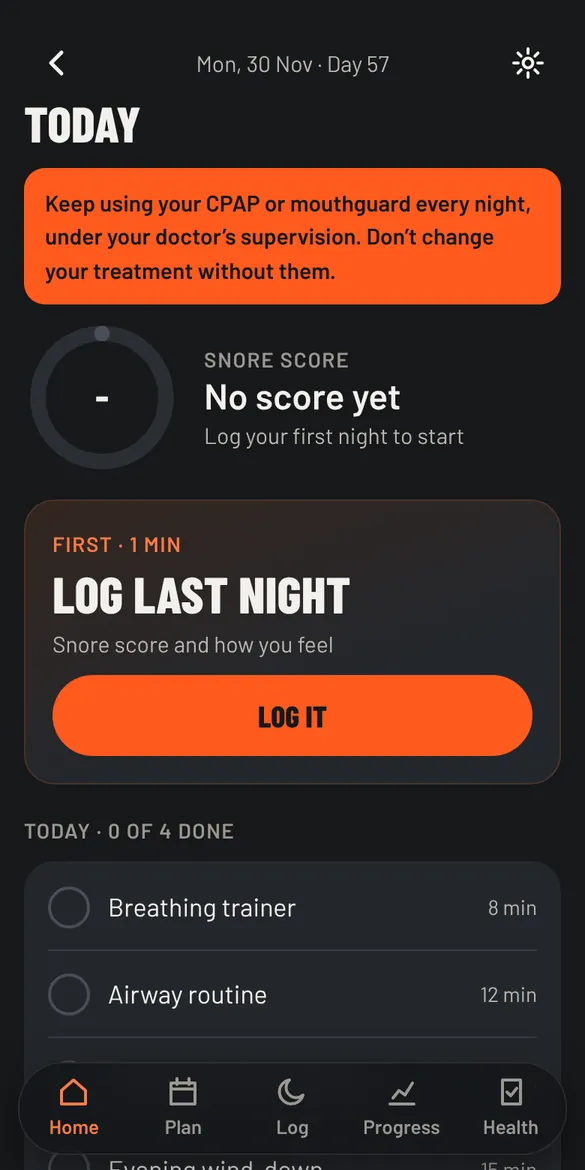
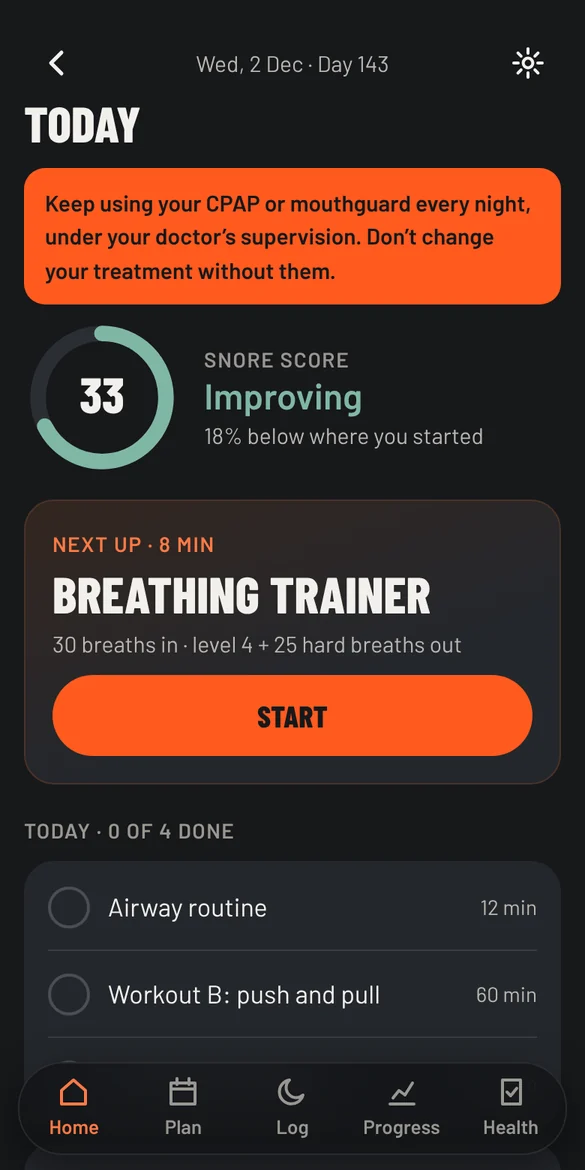
App preview: Today screen with a snore score, and a progress chart, both marked as example data
Claude-Session: https://claude.ai/code/session_01Hr1Vhy7JFwF6pmfEZcUMyD

diff --git a/index.html b/index.html
@@ -306,12 +306,13 @@
   <div class="wrap railhead">
     <div class="sechead">
       <h2>It tells you what to do. Then shows you how.</h2>
-      <p>Real screens from the current app, not mock-ups. It guides you through each day, tracks your progress and saves you designing your own program.</p>
+      <p>Real screens from the current app, not mock-ups. It guides you through each day, tracks your progress and saves you designing your own program. The snore scores shown are example data, not a member’s results.</p>
     </div>
     <div class="arrows"><button type="button" id="prev" aria-label="Previous screen">←</button><button type="button" id="next" aria-label="Next screen">→</button></div>
   </div>
   <div class="rail" id="rail" tabindex="0" role="group" aria-label="Screens from the app">
-    <figure class="shot"><div class="phone"><img src="img/app-day.webp" width="585" height="1170" loading="lazy" alt="The app's Today screen for a training day, listing the breathing trainer, airway routine, workout and evening wind-down, with a reminder to keep using CPAP every night."></div><figcaption><b>Daily training guidance</b><span>Each day’s sessions, in order, with times.</span></figcaption></figure>
+    <figure class="shot"><div class="phone"><img src="img/app-day.webp" width="585" height="1170" loading="lazy" alt="The app's Today screen showing a snore score of 33, marked as improving and 18% below the starting point, with the day's sessions listed and a reminder to keep using CPAP every night. Example data."></div><figcaption><b>Daily training guidance</b><span>Your snore score and each day’s sessions, in order. <i>Example data.</i></span></figcaption></figure>
+    <figure class="shot"><div class="phone"><img src="img/app-progress.webp" width="585" height="1170" loading="lazy" alt="The Progress screen with a chart of average snore score by week over 21 weeks, falling gradually from a baseline of 40 to 33, with a dashed target line 33% below baseline. Example data."></div><figcaption><b>Your snore score over time</b><span>Weekly averages against your own baseline. <i>Example data.</i></span></figcaption></figure>
     <figure class="shot"><div class="phone"><img src="img/app-routine.webp" width="585" height="1170" loading="lazy" alt="The airway routine player showing the tongue press exercise with an airway drawing, numbered steps and a note on where you should feel it."></div><figcaption><b>Exercise demonstrations</b><span>Step-by-step drawings and cues for every move.</span></figcaption></figure>
     <figure class="shot"><div class="phone"><img src="img/app-plan.webp" width="585" height="1170" loading="lazy" alt="The Plan screen showing the four stages across 52 weeks and a monthly calendar with milestone days marked."></div><figcaption><b>The 52-week structure</b><span>Four stages, a calendar and milestones.</span></figcaption></figure>
     <figure class="shot"><div class="phone"><img src="img/app-level.webp" width="585" height="1170" loading="lazy" alt="The Training level screen with separate Strength and Cardio choices of Foundation, Standard and Advanced, and a recommendation with its reasons."></div><figcaption><b>Your training level</b><span>Strength and cardio set separately.</span></figcaption></figure>

diff --git a/site.css b/site.css
@@ -262,6 +262,7 @@ ol.days[hidden]{display:none}
 .shot figcaption{padding:14px 4px 0}
 .shot figcaption b{display:block;font:800 22px/1.1 'Barlow Condensed',sans-serif;text-transform:uppercase}
 .shot figcaption span{color:var(--mut);font-size:16px}
+.shot figcaption i{font-style:normal;color:var(--amb);white-space:nowrap}
 @media (max-width:560px){.arrows{display:none}}
 .moves{display:grid;grid-template-columns:repeat(3,minmax(0,1fr));gap:14px;margin-top:40px}
 .moves figure{margin:0}
